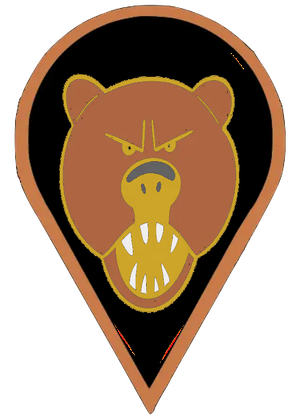
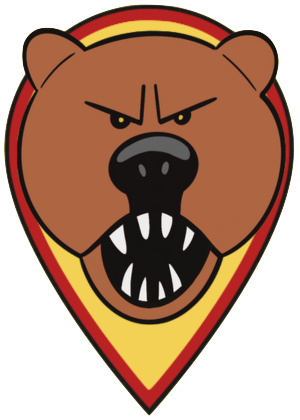
Update pin images and increase emoji glyph scale in pins
This commit updates numerous small pin images to improve visual consistency and quality.
It also increases the emoji glyph scale from 0.66 to 0.73 to reduce glyphs bleeding outside the sage ring boundary,
which enhances the appearance of wide emoji glyphs like hearts and flags on pins.
Redundant comment formatting around the poop emoji entry was cleaned up for consistency.

diff --git a/lib/shared/icons.ts b/lib/shared/icons.ts
@@ -111,12 +111,7 @@ export const ICONS: readonly IconRow[] = [
         path: pinLibraryUrl("pin_muster_point_sm.webp"),
     },
     { name: "home", pin: "glyph", path: pinLibraryUrl("pin_home_sm.webp") },
-    // Baked by tools/makeEmojiPins.mjs.
-    {
-        name: "poop",
-        pin: "glyph",
-        path: pinLibraryUrl("pin_emoji_poop_sm.webp"),
-    },
+    { name: "poop", pin: "glyph", path: pinLibraryUrl("pin_emoji_poop_sm.webp") },
     { name: "tree", pin: "glyph", path: pinLibraryUrl("pin_tree_sm.webp") },
     { name: "cones", pin: "glyph", path: pinLibraryUrl("pin_cone_sm.webp") },
     { name: "cache", pin: "cachePin", path: pinLibraryUrl("pin_cache_sm.webp") },

diff --git a/lib/shared/emojiPinGeometry.ts b/lib/shared/emojiPinGeometry.ts
@@ -2,8 +2,8 @@
 // FRACTIONS of pin width. No imports — tools/makeEmojiPins.mjs loads this from
 // bare Node, so anything added must stay importable there too.
 
-/** Past ~0.68 the widest glyphs (❤, 🤝, flags) breach the sage ring. */
-export const EMOJI_PIN_GLYPH_SCALE = 0.66;
+/** Past ~0.75 the widest glyphs (❤, 🤝, flags) breach the sage ring. */
+export const EMOJI_PIN_GLYPH_SCALE = 0.73;
 
 /** Fraction of pin height; the glyph centres in the head above it. */
 export const EMOJI_PIN_TAIL_FRACTION = 0.28;
